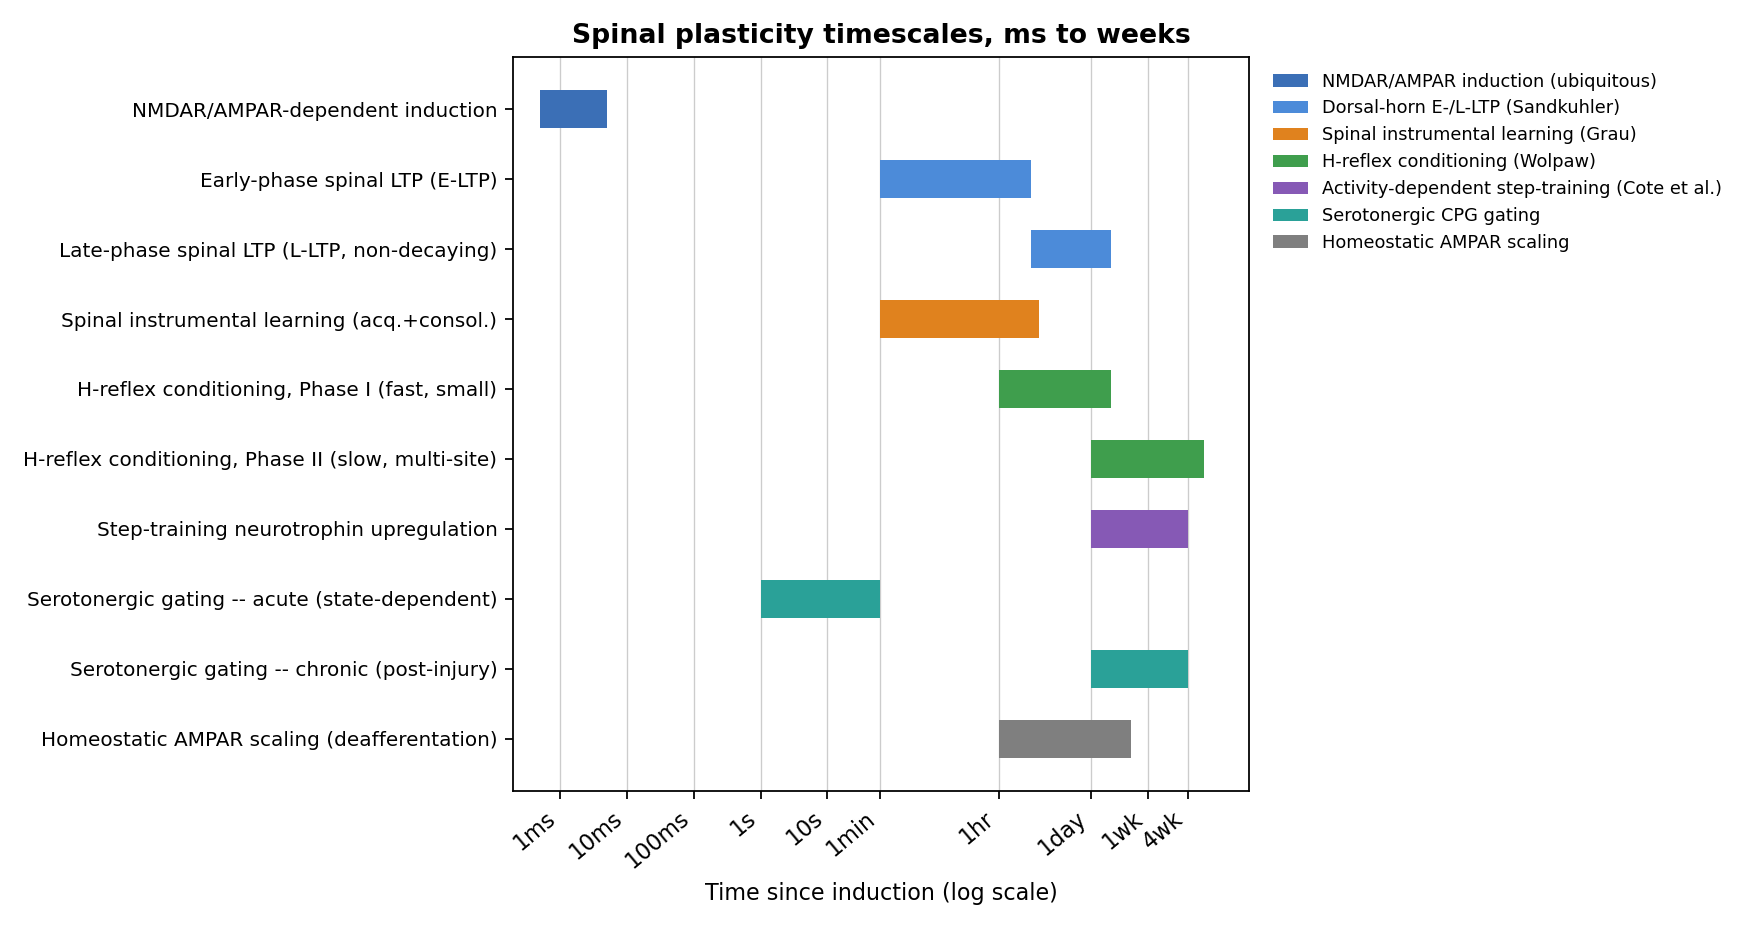
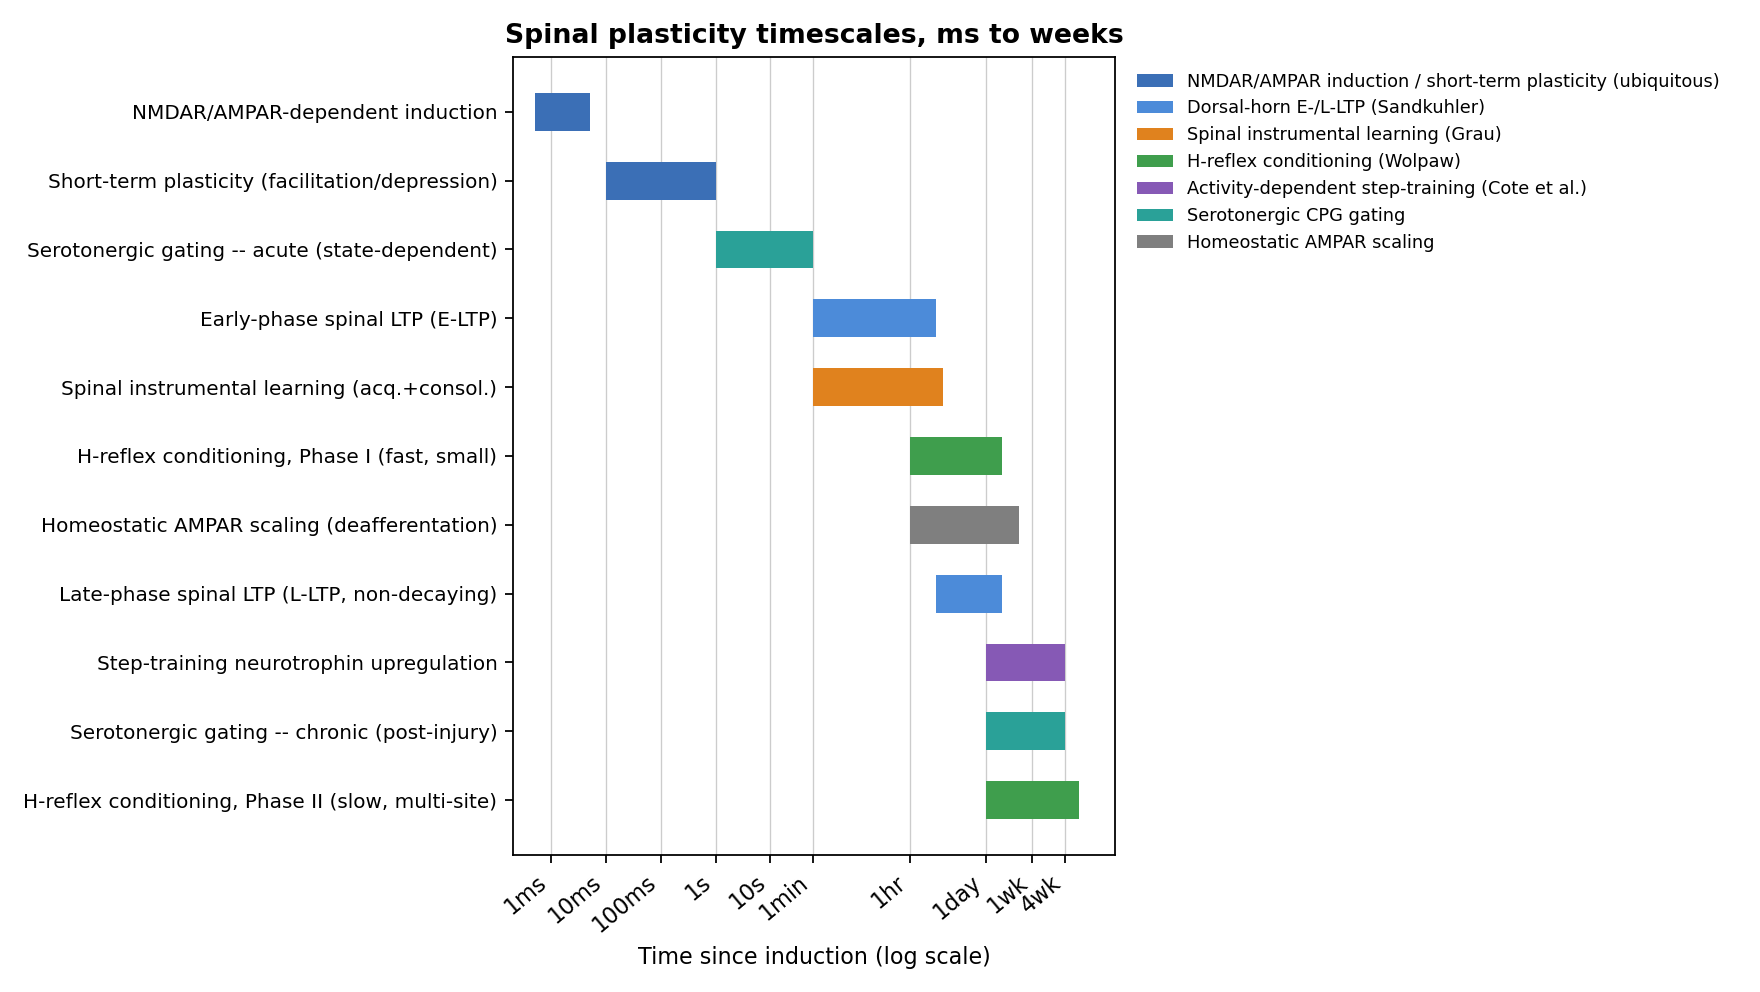
Sort Fig. 1 by onset timescale and add missing short-term plasticity row
Fig. 1's bars were grouped by literature source rather than sorted by
timescale, and short-term plasticity (~10ms-1s, the same NMDAR-deactivation
constraint the hippocampal doc calls out separately from raw induction) was
missing entirely. Split the combined serotonergic acute/chronic table row
into two so it lines up 1:1 with the two separate bars already in the figure.

diff --git a/spinal_plasticity_as_learning_spec.md b/spinal_plasticity_as_learning_spec.md
@@ -24,21 +24,23 @@ scope here — see the separate plan.
 
 ## 1. Spinal plasticity timescales and their modeling constraints
 
-![Ten spinal plasticity processes plotted on one logarithmic time axis from 1ms to several weeks, colored by literature source — blue for NMDAR/AMPAR induction and Sandkühler's dorsal-horn E-/L-LTP, orange for Grau's spinal instrumental learning, green for Wolpaw's two-phase H-reflex conditioning, purple for Côté's activity-dependent step-training, teal for serotonergic CPG gating (acute and chronic), and gray for homeostatic AMPAR scaling — bar position marks onset, length marks characteristic duration.](spinal_timescale_axis.png)
+![Eleven spinal plasticity processes plotted on one logarithmic time axis from 1ms to several weeks, sorted fastest-onset-first top to bottom and colored by literature source — blue for NMDAR/AMPAR induction and short-term plasticity, a lighter blue for Sandkühler's dorsal-horn E-/L-LTP, orange for Grau's spinal instrumental learning, green for Wolpaw's two-phase H-reflex conditioning, purple for Côté's activity-dependent step-training, teal for serotonergic CPG gating (acute and chronic), and gray for homeostatic AMPAR scaling — bar position marks onset, length marks characteristic duration.](spinal_timescale_axis.png)
 
-*Fig. 1 — All ten processes from the table below on one log time axis, colored by which literature reports them. Unlike the hippocampal case's single continuous cascade (Fig. 1 of the companion document), these come from four non-overlapping literatures that were never meant to be read together — the point of this figure is that they nonetheless tile the same ms-to-weeks range without contradicting each other, which is what makes treating them as one specification rather than four separate anecdotes defensible.*
+*Fig. 1 — All eleven processes from the table below on one log time axis, sorted by onset (fastest first) rather than by literature grouping, and colored by which literature reports them. Unlike the hippocampal case's single continuous cascade (Fig. 1 of the companion document), these come from four non-overlapping literatures that were never meant to be read together — the point of this figure is that they nonetheless tile the same ms-to-weeks range without contradicting each other, which is what makes treating them as one specification rather than four separate anecdotes defensible. Onset order is not always literature order: e.g. late-phase spinal LTP's ~3h onset places it after H-reflex conditioning Phase I and homeostatic AMPAR scaling (both onset ~1h), not immediately after early-phase LTP.*
 
 | Process | Time constant | Site / pathway | What it constrains for a spiking-network model |
 |---|---|---|---|
 | NMDAR/AMPAR-dependent synaptic induction | ms-scale, same coincidence physics as everywhere else in CNS | Ubiquitous (dorsal horn, motoneuron) | Sets the same fast coincidence-detection floor as the hippocampal case — nothing spinal-specific here. |
+| Short-term plasticity (facilitation/depression) | ~10 ms–1 s | Ubiquitous (same NMDAR deactivation kinetics as the hippocampal case) | Not spinal-specific either, but still a real constraint: this is why a millisecond-scale coincidence window exists at all, underneath every pathway-specific mechanism below. |
+| Serotonergic (5-HT) neuromodulatory gating of CPG excitability — acute | Seconds (state-dependent gating of whether rhythmic bursting can occur at all) | Brainstem-to-spinal monoaminergic projections onto CPG interneurons and motoneurons | The model's tonic `BS_REGULAR_HZ` drive is a generic reticulospinal proxy; the literature's actual candidate for "descending drive that gates whether the spinal rhythm-generator can run" is specifically serotonergic/noradrenergic. |
 | Early-phase spinal LTP (E-LTP) | 1–3 h; NMDA-receptor-dependent; **protein-synthesis-independent** | Dorsal-horn C-fiber synapses, induced by afferent tetanic stimulation (Sandkühler & Liu 2003) | A transient, spontaneously-decaying potentiation that exists *before* any stabilizing signal arrives — the direct spinal analog of the hippocampal "tag." |
-| Late-phase spinal LTP (L-LTP) | Onset by ~3 h; **requires ongoing protein synthesis**; selectively induced/occluded by BDNF and spinal D1/D5 dopamine-receptor activation | Same dorsal-horn synapses | A discrete regime change from decaying to non-decaying, gated by a *separate* neuromodulatory signal arriving before the tag decays — structurally identical to hippocampal "capture," demonstrated in spinal tissue with no hippocampus involved. |
 | Spinal instrumental (contingency-based) learning | Acquisition within a single session (tens of minutes); consolidation requires new protein synthesis over the following hours; **the sign of what consolidates is set by response contingency**, not by activity level | Interneuron + motoneuron circuits caudal to a complete spinal transection — no brain involvement (Grau et al.) | Whether a training bout produces adaptive potentiation or an active, protein-synthesis-dependent *suppression* of future learning capacity depends on whether the outcome was behaviorally successful — a bidirectional gate, not a one-way accumulator. |
 | H-reflex operant conditioning, Phase I | 1–2 days; small magnitude | Ia-afferent → motoneuron monosynaptic pathway + interneurons (Wolpaw) | The fast, labile component of a two-phase learning process running entirely on the pathway this model calls `Ia→RG`. |
-| H-reflex operant conditioning, Phase II | 6–7 weeks; large, stable; **multi-site** (motoneuron firing threshold and axonal conduction velocity, GABAergic terminal density on the motoneuron, spinal interneuron changes) | Same pathway | The slow, structurally-consolidated component — days-to-weeks systems-consolidation territory, the same absolute regime the hippocampal document assigns to cortical redistribution, but reached entirely within the spinal cord. Demonstrated to correct locomotor asymmetry after spinal cord injury when combined with training — this is the closest published result to the model's own stated rehab goal. |
-| Activity-dependent step-training neurotrophin upregulation | Daily training over days–weeks; **task-specific** (step-training and cycle-training produce different BDNF/NT-3/NT-4 profiles and different dorsal-horn/intermediate-gray neuron counts) | Lumbar spinal cord below a lesion (Côté, Azzam, Lemay, Zhukareva & Houlé 2011) | Argues against a single generic "activity level" gate — the training *modality*, not just its amount, sets what gets reinforced. Directly relevant to this model's distinction between `--cut-trigger force` (stance-loading-driven) and the paced-clock modes. |
-| Serotonergic (5-HT) neuromodulatory gating of CPG excitability | Acute: seconds (state-dependent gating of whether rhythmic bursting can occur at all); chronic: days–weeks (5-HT receptor sensitivity changes after injury, partly restored by training + serotonergic agonists) | Brainstem-to-spinal monoaminergic projections onto CPG interneurons and motoneurons | The model's tonic `BS_REGULAR_HZ` drive is a generic reticulospinal proxy; the literature's actual candidate for "descending drive that gates whether the spinal rhythm-generator can run" is specifically serotonergic/noradrenergic, and its *sensitivity* itself changes with training — a second, slower plasticity axis this model does not yet represent (flagged here, not addressed by the plan in §3). |
 | Homeostatic synaptic scaling after deafferentation / chronic inactivity | Hours–days; mediated by synaptic insertion of GluA2-lacking, Ca²⁺-permeable AMPA receptors | Motoneurons below an injury or period of inactivity | The literature's own mechanism for "what happens when descending/afferent drive is chronically reduced" is an active receptor-composition change with its own kinetics — not a static gain multiplier. Directly relevant to why the model's `--wmax-ia-unloaded` gain-based unloading-rescue attempts plateaued (see [CLAUDE.md](CLAUDE.md), "Core architecture fix" section): the biology's own fix for reduced afferent drive is itself a plasticity process with a time constant, not an instantaneously-applied cap relaxation. |
+| Late-phase spinal LTP (L-LTP) | Onset by ~3 h; **requires ongoing protein synthesis**; selectively induced/occluded by BDNF and spinal D1/D5 dopamine-receptor activation | Same dorsal-horn synapses | A discrete regime change from decaying to non-decaying, gated by a *separate* neuromodulatory signal arriving before the tag decays — structurally identical to hippocampal "capture," demonstrated in spinal tissue with no hippocampus involved. |
+| Activity-dependent step-training neurotrophin upregulation | Daily training over days–weeks; **task-specific** (step-training and cycle-training produce different BDNF/NT-3/NT-4 profiles and different dorsal-horn/intermediate-gray neuron counts) | Lumbar spinal cord below a lesion (Côté, Azzam, Lemay, Zhukareva & Houlé 2011) | Argues against a single generic "activity level" gate — the training *modality*, not just its amount, sets what gets reinforced. Directly relevant to this model's distinction between `--cut-trigger force` (stance-loading-driven) and the paced-clock modes. |
+| Serotonergic (5-HT) neuromodulatory gating of CPG excitability — chronic | Days–weeks (5-HT receptor sensitivity changes after injury, partly restored by training + serotonergic agonists) | Same monoaminergic projections | Its *sensitivity*, not just its rate, changes with training — a second, slower plasticity axis this model does not yet represent (flagged here, not addressed by the plan in §3). |
+| H-reflex operant conditioning, Phase II | 6–7 weeks; large, stable; **multi-site** (motoneuron firing threshold and axonal conduction velocity, GABAergic terminal density on the motoneuron, spinal interneuron changes) | Same pathway | The slow, structurally-consolidated component — days-to-weeks systems-consolidation territory, the same absolute regime the hippocampal document assigns to cortical redistribution, but reached entirely within the spinal cord. Demonstrated to correct locomotor asymmetry after spinal cord injury when combined with training — this is the closest published result to the model's own stated rehab goal. |
 
 ## 2. Tag-and-capture and contingency-gated consolidation in spinal circuits
 
@@ -150,9 +152,9 @@ second, slower component:
   post-hoc correctness check.
 - **`BS→RG`** is the weakest fit: none of the four literatures describe
   descending drive itself as undergoing this kind of tag/capture-style
-  plasticity in the same sense (the closest analog, serotonergic
-  receptor-sensitivity change after injury, is a separate, slower axis — see
-  the last two rows of §1's table, not addressed further here). Applying the
+  plasticity in the same sense (the closest analog, the serotonergic
+  acute/chronic receptor-sensitivity change after injury, is a separate,
+  slower axis — see §1's table, not addressed further here). Applying the
   same mechanism to `BS→RG` for architectural uniformity is a modeling choice
   this document does not find direct literature support for, one way or the
   other — worth flagging explicitly before the plan commits to it.
